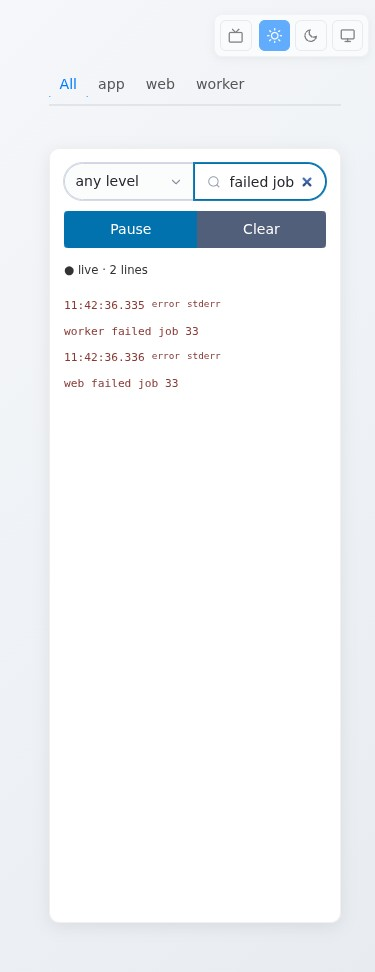
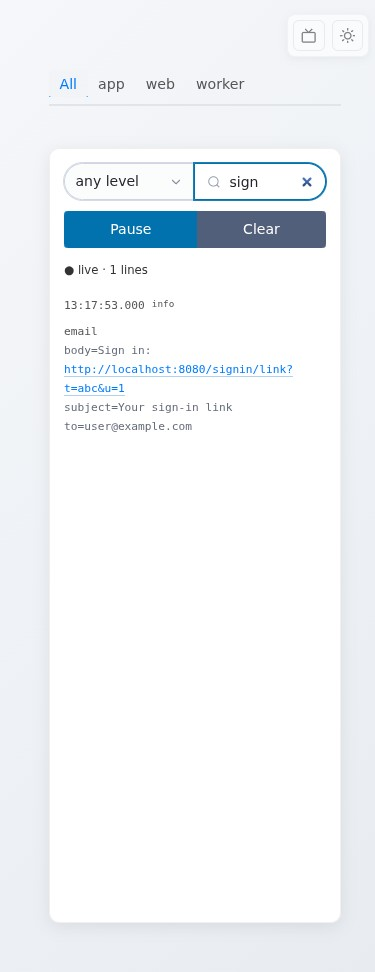
logs: show each line's fields, and link URLs (#4, #5) (#6)
A row shows its message, then each other field as key=value, muted;
msg and every value go through tinkerdown's linkify, so a URL is a link
that opens in a new tab. The e2e checks the fields, the exact href, a
<script> line rendered as text, the append op, search on a field and
the URL wrapping at 390px. Needs tinkerdown 0.7.4.

Claude-Session: https://claude.ai/code/session_01H17jLZ8QrVBa63r4MNcuSH

diff --git a/e2e/logs_test.go b/e2e/logs_test.go
@@ -8,6 +8,8 @@ import (
 	"fmt"
 	"os"
 	"path/filepath"
+	"reflect"
+	"slices"
 	"strings"
 	"testing"
 	"time"
@@ -107,11 +109,25 @@ func TestLogViewer(t *testing.T) {
 	everyRow := func(pred string) string {
 		return fmt.Sprintf(`(() => { const li = [...document.querySelectorAll("ol.log li")]; return li.length > 0 && li.every(r => %s); })()`, pred)
 	}
-	// setLevel picks a level as a user would. chromedp.SetValue("") leaves a
-	// select with no option chosen, a state no user can reach.
-	setLevel := func(v string) chromedp.Action {
-		return chromedp.Evaluate(fmt.Sprintf(`(() => { const s = document.querySelector('[data-testid="level"]');
-			s.value = %q; s.dispatchEvent(new Event("change", {bubbles: true})); })()`, v), nil)
+	// setField sets a toolbar field and fires event, as a user would.
+	// chromedp.SetValue("") leaves a select with no option chosen, a state no
+	// user can reach, and can't set the search box at all.
+	setField := func(testid, v, event string) chromedp.Action {
+		return chromedp.Evaluate(fmt.Sprintf(`(() => { const s = document.querySelector('[data-testid=%q]');
+			s.value = %q; s.dispatchEvent(new Event(%q, {bubbles: true})); })()`, testid, v, event), nil)
+	}
+	setLevel := func(v string) chromedp.Action { return setField("level", v, "change") }
+	// appendLog appends lines to the served copy's log file.
+	appendLog := func(lines ...string) {
+		t.Helper()
+		f, err := os.OpenFile(filepath.Join(dir, "logs/app.log"), os.O_APPEND|os.O_WRONLY, 0)
+		if err != nil {
+			t.Fatal(err)
+		}
+		defer f.Close()
+		for _, l := range lines {
+			fmt.Fprintln(f, l)
+		}
 	}
 	shot := func(name string) {
 		var buf []byte
@@ -156,12 +172,7 @@ func TestLogViewer(t *testing.T) {
 	})
 
 	t.Run("appending to the log file shows the line", func(t *testing.T) {
-		f, err := os.OpenFile(filepath.Join(dir, "logs/app.log"), os.O_APPEND|os.O_WRONLY, 0)
-		if err != nil {
-			t.Fatal(err)
-		}
-		fmt.Fprintln(f, `{"level":"error","msg":"disk almost full"}`)
-		f.Close()
+		appendLog(`{"level":"error","msg":"disk almost full"}`)
 		waitJS("the appended line", `[...document.querySelectorAll("li.src-app .msg")].some(m => m.textContent === "disk almost full")`)
 	})
 
@@ -240,6 +251,78 @@ func TestLogViewer(t *testing.T) {
 		waitJS("only matching rows", everyRow(`r.textContent.includes("failed job")`))
 	})
 
+	// signinURL is the link an app logged in a field (onefile#4, #5).
+	const signinURL = "http://localhost:8080/signin/link?t=abc&u=1"
+	t.Run("a structured line shows its fields, with links", func(t *testing.T) {
+		if err := run(setField("search", "", "input")); err != nil {
+			dump()
+			t.Fatal(err)
+		}
+		waitJS("rows that don't match the old search", `[...document.querySelectorAll("ol.log li")].some(r => !r.textContent.includes("failed job"))`)
+		logs.mu.Lock()
+		framesBefore := len(logs.recv)
+		logs.mu.Unlock()
+		appendLog(`time=2026-11-22T13:17:53.000Z level=INFO msg=email subject="Your sign-in link" to=user@example.com body="Sign in: `+signinURL+`"`,
+			`{"level":"warn","msg":"<script>window.pwned=1</script> bad input"}`)
+		row := `[...document.querySelectorAll("li.src-app")].find(r => r.querySelector(".msg").textContent === "email")`
+		waitJS("the email row", "!!"+row)
+
+		var fields []string
+		eval(`[...`+row+`.querySelectorAll(".fields > span")].map(s => s.textContent)`, &fields)
+		want := []string{"body=Sign in: " + signinURL, "subject=Your sign-in link", "to=user@example.com"}
+		if !slices.Equal(fields, want) {
+			dump()
+			t.Fatalf("fields = %q, want %q", fields, want)
+		}
+
+		var links []map[string]string
+		eval(`[...`+row+`.querySelectorAll("a")].map(a => ({href: a.getAttribute("href"), text: a.textContent, target: a.target, rel: a.rel}))`, &links)
+		wantLinks := []map[string]string{{"href": signinURL, "text": signinURL, "target": "_blank", "rel": "noopener noreferrer"}}
+		if !reflect.DeepEqual(links, wantLinks) {
+			dump()
+			t.Fatalf("links in the email row = %v, want one new-tab link to %s", links, signinURL)
+		}
+
+		waitJS("the script line", `[...document.querySelectorAll("li.src-app .msg")].some(m => m.textContent === "<script>window.pwned=1</script> bad input")`)
+		var injected bool
+		eval(`!!document.querySelector("ol.log script") || window.pwned === 1`, &injected)
+		if injected {
+			dump()
+			t.Fatal("a <script> in a log line became an element")
+		}
+
+		// The new rows arrived as range append ops, not a resend of the list (A2).
+		logs.mu.Lock()
+		var frame string
+		for _, f := range logs.recv[framesBefore:] {
+			if strings.Contains(f, "signin/link") {
+				frame = f
+				break
+			}
+		}
+		logs.mu.Unlock()
+		if !strings.Contains(frame, `["a",`) {
+			dump()
+			t.Fatalf("the frame with the email row has no append op: %.600s", frame)
+		}
+	})
+
+	t.Run("search finds text in a field", func(t *testing.T) {
+		if err := run(chromedp.SendKeys(`[data-testid="search"]`, "sign", chromedp.ByQuery)); err != nil {
+			dump()
+			t.Fatal(err)
+		}
+		waitJS("only rows with sign", everyRow(`r.textContent.toLowerCase().includes("sign")`))
+		var visible bool
+		eval(`(() => { const a = document.querySelector("ol.log li .fields a"); if (!a) return false;
+			const r = a.getBoundingClientRect(); return r.width > 0 && r.height > 0; })()`, &visible)
+		if !visible {
+			dump()
+			t.Fatal("the matching row's link isn't visible")
+		}
+		shot("desktop-fields")
+	})
+
 	t.Run("phone layout", func(t *testing.T) {
 		if err := run(chromedp.EmulateViewport(390, 844)); err != nil {
 			t.Fatal(err)
@@ -249,6 +332,18 @@ func TestLogViewer(t *testing.T) {
 		shot("phone")
 		if overflow {
 			t.Fatal("page scrolls horizontally at phone width")
+		}
+		// The search for "sign" is still on, so the long URL is on screen: it
+		// wraps onto several lines, as one link, inside the screen.
+		var link struct {
+			Lines        int
+			Right, Width float64
+		}
+		eval(`(() => { const a = document.querySelector("ol.log li .fields a");
+			return {lines: a.getClientRects().length, right: a.getBoundingClientRect().right, width: window.innerWidth}; })()`, &link)
+		if link.Lines < 2 || link.Right > link.Width {
+			dump()
+			t.Fatalf("the URL at 390px: %d lines, right edge %v of %v; want it wrapped inside the screen", link.Lines, link.Right, link.Width)
 		}
 		// Each toolbar button must be the element a tap on its centre reaches.
 		var covered []string

diff --git a/logs/index.md b/logs/index.md
@@ -53,7 +53,8 @@ sources:
         <time>{{.time}}</time>
         <b class="src">{{.source}}</b>
         <small class="lvl">{{.level}}</small>
-        <span class="msg">{{.msg}}</span>
+        <span class="text"><span class="msg">{{linkify .msg}}</span>
+          <span class="fields">{{range $k, $v := .fields}}<span>{{$k}}={{linkify $v}}</span> {{end}}</span></span>
         <small class="std">{{.stream}}</small>
       </li>
     {{end}}
@@ -67,10 +68,14 @@ sources:
 /* content-visibility skips layout and paint for rows scrolled out of view */
 .log li { content-visibility: auto; contain-intrinsic-size: auto 1.6rem; display: grid; grid-template-columns: 7.5rem 4.5rem 3.5rem 1fr auto; gap: .5rem; overflow-wrap: anywhere; }
 .log .std { visibility: hidden; }
+/* Each field after the message, as key=value, muted. The row's
+   overflow-wrap: anywhere keeps a long URL from widening the page. */
+.log .fields span { margin-left: .75rem; color: var(--pico-muted-color); }
 .log :is(.stream-stderr, .stream-system) .std { visibility: visible; }
 @media (max-width: 600px) {
   .log li { grid-template-columns: auto auto 1fr; }
   .log .src { display: none; }
-  .log .msg { grid-column: 1 / -1; grid-row: 2; }
+  .log .text { grid-column: 1 / -1; grid-row: 2; }
+  .log .fields span { display: block; margin-left: 0; }
 }
 </style>

diff --git a/logs/README.md b/logs/README.md
@@ -26,7 +26,7 @@ Run it with no `--source` in a terminal and `serve` asks for sources, then print
 
 Setting this up with a coding agent? Point it at [AGENTS.md](../AGENTS.md).
 
-It needs tinkerdown 0.5.0 or later: `brew install livetemplate/tap/tinkerdown`.
+It needs tinkerdown 0.7.4 or later: `brew install livetemplate/tap/tinkerdown`.
 
 ## Add your own logs
 
@@ -77,11 +77,13 @@ tinkerdown serve index.md --source 'api-out=file:../my-api/out.log' --source 'ap
 | Freeze the view | **Pause**. **Resume** catches up. |
 | Start fresh | **Clear** hides the lines shown so far. |
 
+A line in JSON or logfmt shows its message, then each other field as `key=value`. Any `http://` or `https://` URL in a line is a link that opens in a new tab.
+
 Lines from stderr and the viewer's own notes (such as a restarted command) are marked at the right of each line.
 
 On a phone, each line puts its time and level above the message:
 
-<img src="docs/phone.png" alt="Phone: a search for failed job" width="300">
+<img src="docs/phone.png" alt="Phone: a search for sign, showing a line's fields and its link" width="300">
 
 ## Test
 

diff --git a/AGENTS.md b/AGENTS.md
@@ -8,7 +8,7 @@ Each app in this repo is one page, `<app>/index.md`, served with tinkerdown stra
 brew install livetemplate/tap/tinkerdown
 ```
 
-Or, with Go 1.26 or later: `go install github.com/livetemplate/tinkerdown/cmd/tinkerdown@latest`. The apps need tinkerdown 0.7.3 or later; check with `tinkerdown version`.
+Or, with Go 1.26 or later: `go install github.com/livetemplate/tinkerdown/cmd/tinkerdown@latest`. The apps need tinkerdown 0.7.4 or later; check with `tinkerdown version`.
 
 ## 2. Ask the user which logs to follow
 

diff --git a/README.md b/README.md
@@ -19,7 +19,7 @@ A page served from a URL can't run commands or read files on its own. An app tha
 
 Setting an app up with a coding agent? Point it at [AGENTS.md](AGENTS.md).
 
-The apps need tinkerdown 0.7.3 or later:
+The apps need tinkerdown 0.7.4 or later:
 
 ```sh
 brew install livetemplate/tap/tinkerdown
